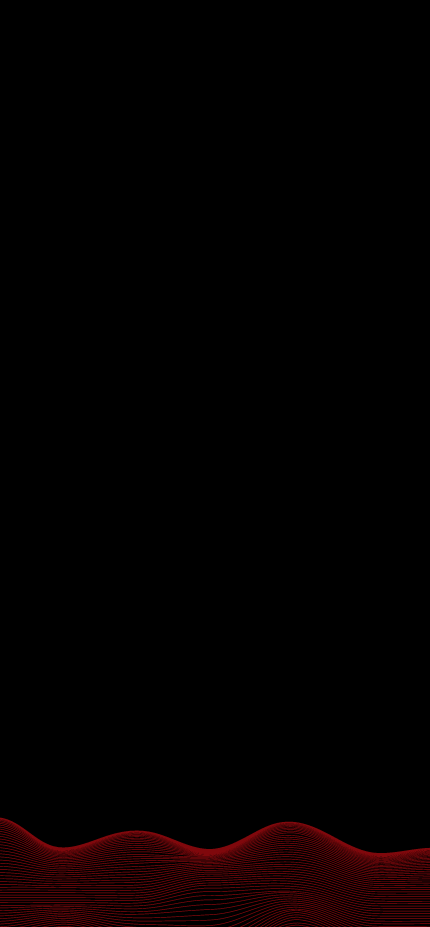
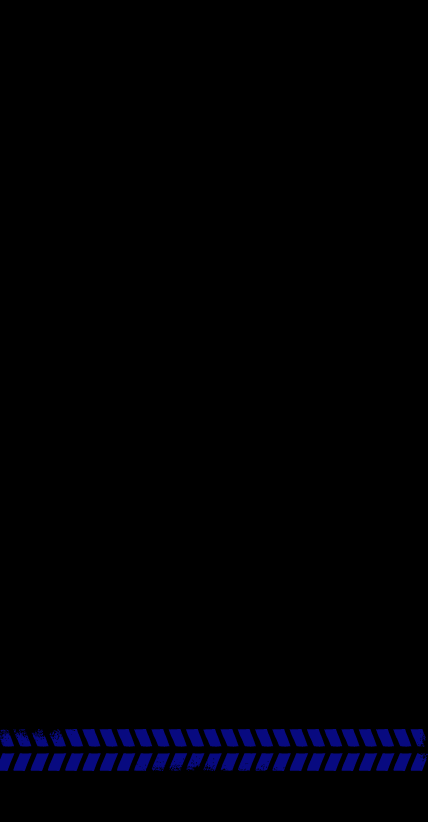
gamma 1.0.1 (safal)

Changed region(s): [[0.0, 0.882, 1.0, 1.0]]

diff --git a/lib/Host/account_screen.dart b/lib/Host/account_screen.dart
@@ -1,0 +1,97 @@
+import 'package:flutter/material.dart';
+import 'package:gamblersgaming/Host/create_account.dart';
+import 'package:gamblersgaming/Host/login_screen.dart';
+import 'package:google_fonts/google_fonts.dart';
+class AccountScreenHost extends StatelessWidget{
+  const AccountScreenHost({super.key});
+
+  @override
+  Widget build(context) {
+    return Scaffold(
+      appBar: AppBar(
+        title: Text(""),
+        backgroundColor:Color.fromRGBO(0, 0, 0, 1),
+      ),
+        body: Container(
+        decoration: const BoxDecoration(
+          image: DecorationImage(
+            image: AssetImage('assets/Images/GG_BG1.png'),
+            fit: BoxFit.cover,
+          )
+        ),
+        child: Center(
+          child: Column(
+            mainAxisSize: MainAxisSize.min,
+            children: [
+              Image.asset('assets/Images/GGLogo.png', width: 150,),
+              const SizedBox(height: 10,),
+              //UserIcon
+              Column(
+                crossAxisAlignment: CrossAxisAlignment.stretch,
+                children: [
+
+                  Container(
+                    width: 120,
+                    height: 120,
+                    decoration: const BoxDecoration(
+                        shape: BoxShape.circle,
+                        color: Colors.black,
+                        boxShadow: [
+                          BoxShadow(
+                              color: Color.fromRGBO(8,10,128,24),
+                              blurRadius: 15,
+                              spreadRadius: 4
+                          )
+                        ]
+                    ),
+                    child: Container(alignment: Alignment.center,child: Image.asset('assets/Images/Host/user_host.png',width: 70,height:70,fit: BoxFit.fitHeight,)),
+                  ),
+                ],
+              ),
+              const SizedBox(height: 40,),
+              Text('WELCOME', style: GoogleFonts.orbitron(
+                  color: Colors.white, fontSize: 20)),
+              const SizedBox(height: 30,),
+              ElevatedButton(
+                  onPressed: () {
+                    Navigator.of(context).push(MaterialPageRoute(builder: (context)=>LogInScreenHost()));
+                  },
+                  style: ElevatedButton.styleFrom(
+                    backgroundColor: const Color.fromRGBO(19, 15, 255, 24),
+                    fixedSize: const Size(220, 50),
+                    side: const BorderSide(color: Color.fromRGBO(19, 15, 255, 24), width: 0.5),
+                    shape: RoundedRectangleBorder(
+                      borderRadius: BorderRadius.circular(12.0)
+                    )
+                  ),
+                  child: const Text('LOGIN' , style: TextStyle(
+                      fontFamily: 'MSPGothic',
+                      color: Colors.white
+                  ))
+              ),
+              const SizedBox(height: 30,),
+              ElevatedButton(
+                  onPressed: () {
+                    Navigator.of(context).push(MaterialPageRoute(builder: (context)=>CreateAccountHost()));
+                  },
+                  style: ElevatedButton.styleFrom(
+                      backgroundColor: Colors.black,
+                      fixedSize: const Size(220, 50),
+                      side: const BorderSide(color: Color.fromRGBO(8,10,128,24), width: 1),
+                      shape: RoundedRectangleBorder(
+                          borderRadius: BorderRadius.circular(12.0)
+                      )
+                  ),
+                  child: const Text('CREATE AN ACCOUNT' , style: TextStyle(
+                    fontFamily: 'MSPGothic',
+                    color: Colors.white
+                  ))
+              ),
+              const SizedBox(height: 120,)
+            ],
+          ),
+        ),
+      ),
+    );
+  }
+}

diff --git a/lib/Host/login_screen.dart b/lib/Host/login_screen.dart
@@ -1,10 +1,11 @@
 import 'package:flutter/material.dart';
+import 'package:gamblersgaming/Host/create_account.dart';
 
 import 'package:google_fonts/google_fonts.dart';
 
-import 'create_account.dart';
-class LogInScreen extends StatelessWidget{
-  const LogInScreen({super.key});
+//import 'create_account.dart';
+class LogInScreenHost extends StatelessWidget{
+  const LogInScreenHost({super.key});
 
   @override
   Widget build(context) {
@@ -35,13 +36,13 @@ class LogInScreen extends StatelessWidget{
                           color: Colors.black,
                           boxShadow: [
                             BoxShadow(
-                                color: Color.fromARGB(255, 128, 8, 12),
+                                color: Color.fromRGBO(8,10,128,24),
                                 blurRadius: 18,
                                 spreadRadius: 5
                             )
                           ]
                       ),
-                      child: Image.asset('assets/Images/Gamer/user.png', alignment: Alignment.bottomCenter),
+                      child: Container(alignment: Alignment.center,child: Image.asset('assets/Images/Host/user_host.png',width: 70,height:70,fit: BoxFit.fitHeight,)),
                     ),
                   ],
                 ),
@@ -59,7 +60,7 @@ class LogInScreen extends StatelessWidget{
                       enabledBorder: const UnderlineInputBorder(
                         borderSide: BorderSide(
                           width: 1,
-                          color: Color.fromARGB(255, 128, 8, 12),
+                          color: Color.fromRGBO(8,10,128,24),
                         )
                       ),
                       labelText: 'Email or UserName',
@@ -75,7 +76,7 @@ class LogInScreen extends StatelessWidget{
                         enabledBorder: const UnderlineInputBorder(
                             borderSide: BorderSide(
                               width: 1,
-                              color: Color.fromARGB(255, 128, 8, 12),
+                              color: Color.fromRGBO(8,10,128,24),
                             )
                         ),
                         labelText: 'Password',
@@ -89,7 +90,7 @@ class LogInScreen extends StatelessWidget{
 
                     },
                     style: ElevatedButton.styleFrom(
-                        backgroundColor: const Color.fromARGB(255, 255, 15, 24),
+                        backgroundColor: const Color.fromRGBO(19, 15, 255, 24),
                         fixedSize: const Size(150, 35),
                         shape: RoundedRectangleBorder(
                             borderRadius: BorderRadius.circular(10.0)
@@ -109,12 +110,12 @@ class LogInScreen extends StatelessWidget{
                 const SizedBox(height: 27,),
                 ElevatedButton(
                     onPressed: () {
-                      Navigator.of(context).push(MaterialPageRoute(builder: (context)=>CreateAccount()));
+                      Navigator.of(context).push(MaterialPageRoute(builder: (context)=>CreateAccountHost()));
                     },
                     style: ElevatedButton.styleFrom(
                         backgroundColor: Colors.black,
                         fixedSize: const Size(200, 35),
-                        side: const BorderSide(color: Color.fromARGB(255, 255, 15, 24), width: 1),
+                        side: const BorderSide(color: Color.fromRGBO(8,10,128,24), width: 1),
                         shape: RoundedRectangleBorder(
                             borderRadius: BorderRadius.circular(10.0)
                         )

diff --git a/lib/start_screen.dart b/lib/start_screen.dart
@@ -2,7 +2,8 @@ import 'package:flutter/material.dart';
 import 'package:google_fonts/google_fonts.dart';
 
 import 'Gamer/account_screen.dart';
-//import 'Gamer/login_screen.dart';
+
+import 'Host/account_screen.dart';
 
 class StartScreen extends StatelessWidget{
   const StartScreen({super.key});
@@ -13,8 +14,7 @@ class StartScreen extends StatelessWidget{
     double screenHeight = MediaQuery.of(context).size.height;
     return Scaffold(
       backgroundColor: Color.fromRGBO(0, 0, 0, 10),
-      appBar: AppBar(title: const Text(" "),
-        backgroundColor:  Color.fromRGBO(0, 0, 0, 10),),
+
       body: Center(
         child: Column(
           mainAxisSize: MainAxisSize.min,
@@ -65,7 +65,7 @@ class StartScreen extends StatelessWidget{
                   mainAxisAlignment: MainAxisAlignment.center,
                   children: [
                     Image.asset(
-                        'assets/Images/game-controller (3).png',
+                        'assets/Images/Gamer/game-controller (3).png',
                       width: screenWidth * 0.18,
 
                     ),
@@ -88,7 +88,7 @@ class StartScreen extends StatelessWidget{
               decoration: const BoxDecoration(
                   boxShadow: [
                     BoxShadow(
-                        color: Color.fromARGB(255, 128, 8, 12),
+                        color: Color.fromRGBO(8,10,128,24),
                         blurRadius: 20,
                         spreadRadius: 5
                     ),
@@ -96,7 +96,9 @@ class StartScreen extends StatelessWidget{
                   borderRadius: BorderRadius.all(Radius.circular(10))
               ),
               child: ElevatedButton(
-                onPressed: () {},
+                onPressed: () {
+                  Navigator.of(context).push(MaterialPageRoute(builder: (context)=> AccountScreenHost()));
+                },
                 style: ElevatedButton.styleFrom(
                     backgroundColor: Colors.black,
                     fixedSize: Size(screenWidth * 0.44, screenHeight * 0.18 ),
@@ -109,7 +111,7 @@ class StartScreen extends StatelessWidget{
                   mainAxisAlignment: MainAxisAlignment.center,
                   children : [
                     Image.asset(
-                  'assets/Images/game-controller (4).png',
+                  'assets/Images/Gamer/game-controller-host.png',
                   width: screenWidth * 0.17,
 
                 ),
@@ -135,7 +137,7 @@ class StartScreen extends StatelessWidget{
                 style: TextStyle(
                   fontFamily: 'ModernWarfare',
                   fontSize: 27,
-                  color: Colors.white,
+                  color: Color.fromRGBO(8,10,128,1),
 
                 ),
               ),
@@ -149,7 +151,7 @@ class StartScreen extends StatelessWidget{
                 style: TextStyle(
                     fontFamily: 'ModernWarfare',
                     fontSize: 27,
-                    color: Color.fromARGB(255, 255, 15, 24)
+                    color: Color.fromRGBO( 255, 255, 255 , 1)
                 ),
               ),
             ),

diff --git a/lib/Host/create_account.dart b/lib/Host/create_account.dart
@@ -1,13 +1,13 @@
 import 'package:flutter/material.dart';
 import 'package:google_fonts/google_fonts.dart';
-class CreateAccount extends StatefulWidget{
-  const CreateAccount({super.key});
+class CreateAccountHost extends StatefulWidget{
+  const CreateAccountHost({super.key});
 
   @override
-  State<CreateAccount> createState() => _CreateAccountState();
+  State<CreateAccountHost> createState() => _CreateAccountHostState();
 }
 
-class _CreateAccountState extends State<CreateAccount> {
+class _CreateAccountHostState extends State<CreateAccountHost> {
   @override
   Widget build(context){
     final keyboardSpace = MediaQuery.of(context).viewInsets.bottom;
@@ -31,7 +31,7 @@ class _CreateAccountState extends State<CreateAccount> {
                       shape: BoxShape.circle,
                       boxShadow: [
                         BoxShadow(
-                            color: Color.fromARGB(255, 255, 15, 24),
+                            color: Color.fromRGBO(19, 15, 255, 24),
                             blurRadius: 20,
                             spreadRadius: 5
                         )
